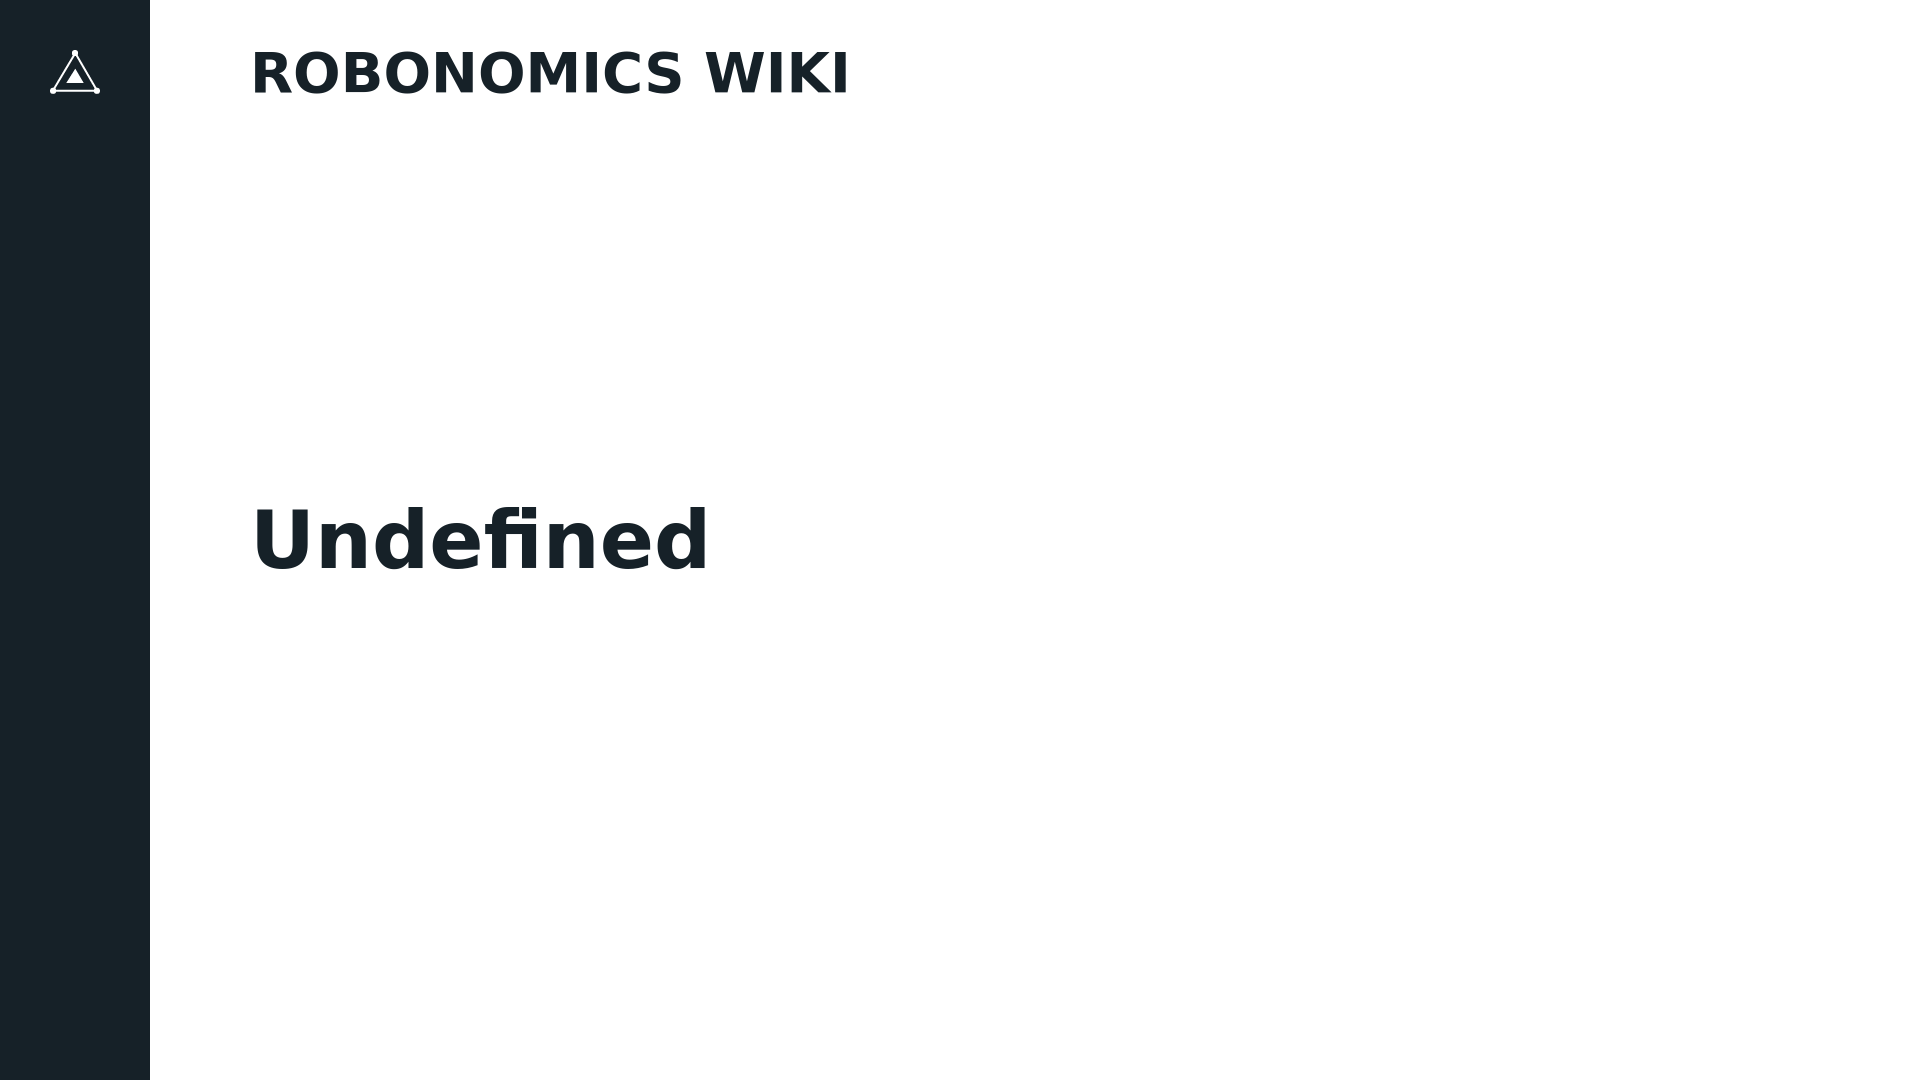
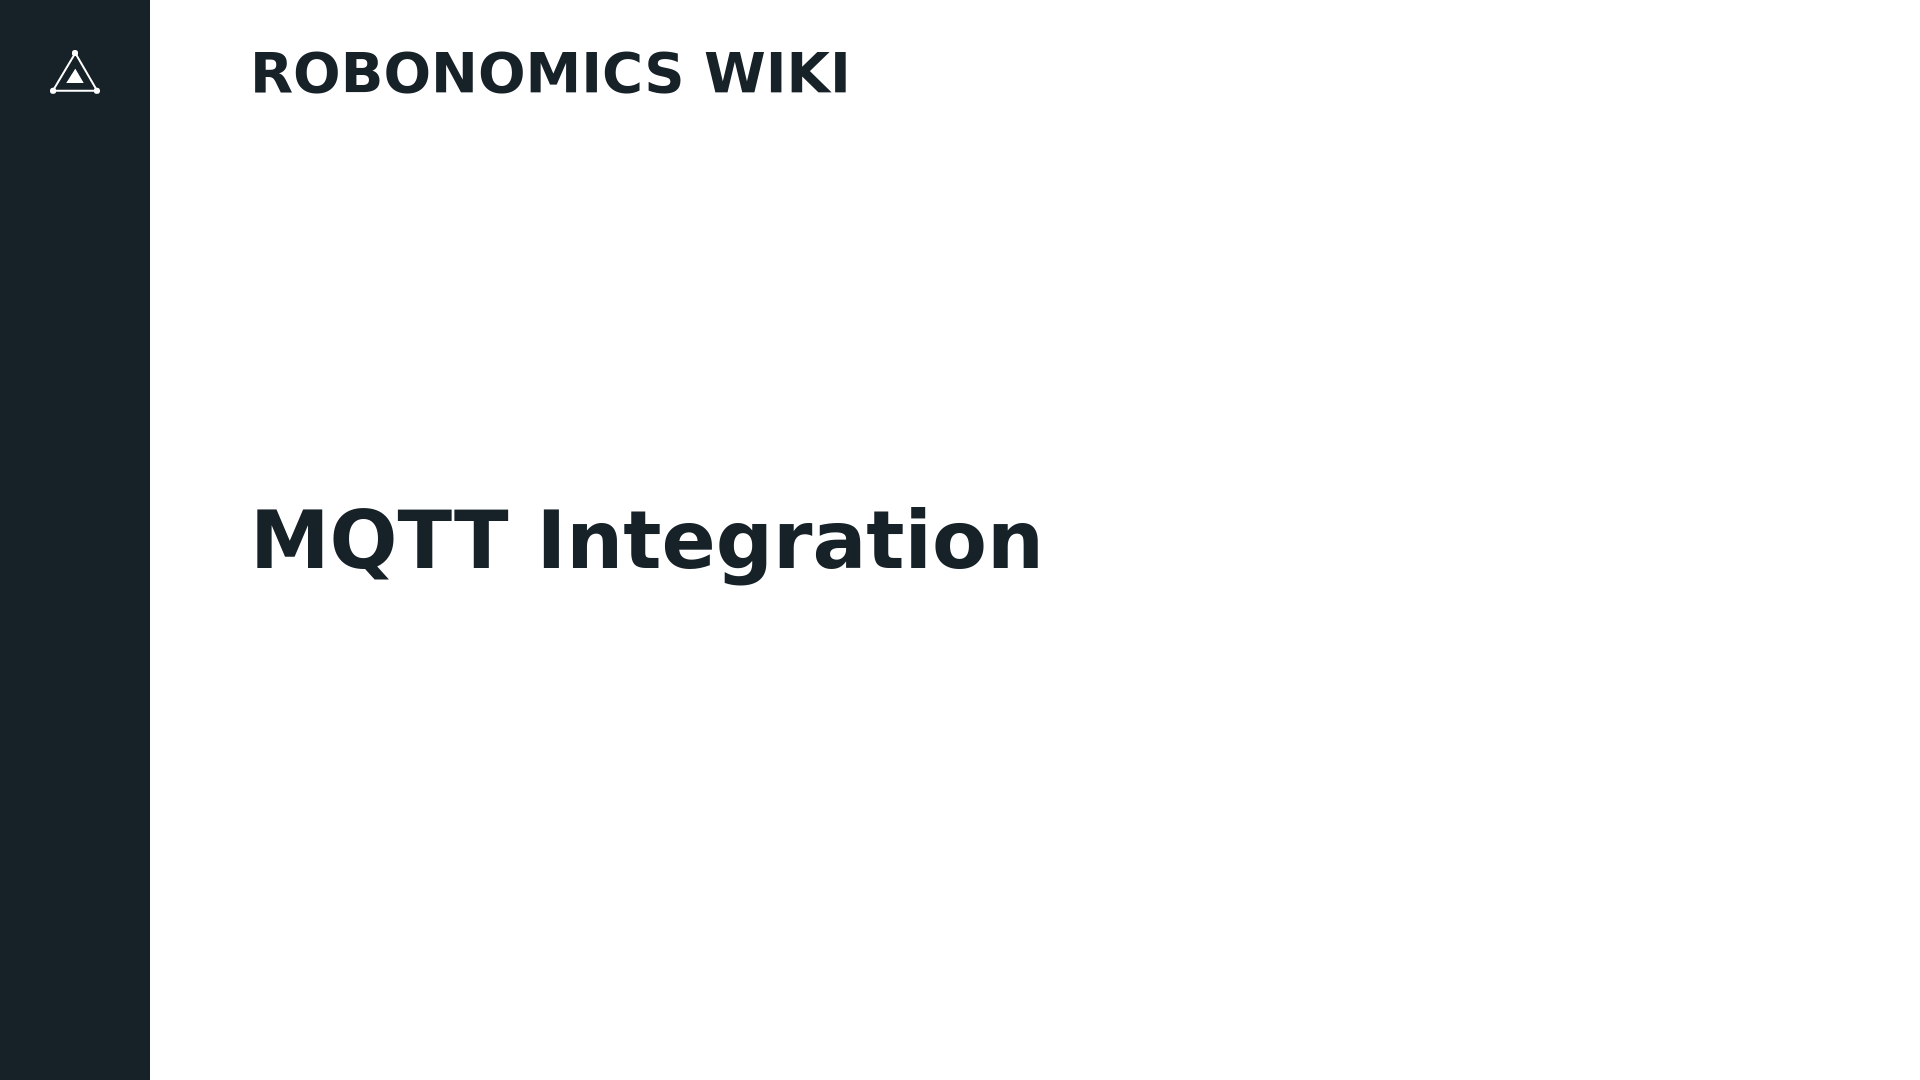
fix requested changes

Changed region(s): [[0.125, 0.4583, 0.5625, 0.55]]

diff --git a/docs/hass-init.md b/docs/hass-init.md
@@ -27,7 +27,7 @@ On the next screen, Home Assistant will show any devices that it has discovered 
 After that, you will see the Home Assistant web interface, which will show all of your devices. Next you need to setup MQTT Broker. And you have to options^
 
 **Option 1 (Home Assistant OS)**
-* If you start upgrading you Home Assistant OS, [go to the next article](/docs/mqtt-hassos/).
+* If you are upgrading you Home Assistant OS, [go to the next article](/docs/mqtt-hassos/).
 
 **Option 2 (Home assistant Docker or core)**
 * If you are using "pre-used" image or upgrading your Home Assistant docker container or hass core, [go to the next article](/docs/mqtt-broker-setup-core/).

diff --git a/docs/hass-install-docker.md b/docs/hass-install-docker.md
@@ -94,5 +94,5 @@ You will see the following output:
 
 Now you have two options:
 
-- If you have not yet used MQTT integration to connect smart devices via Zigbee adapter, go to the [**MQTT Setup**](/docs/mqtt-setup/) article.
+- If you have not yet used MQTT integration to connect smart devices via Zigbee adapter, go to the [**MQTT Broker for Home Assistant docker and core **](/docs/mqtt-broker-setup-core/) article.
 - Otherwise, go to the [**IoT Subscription**](/docs/sub-activate) section and start activating the Robonomics subscription.

diff --git a/docs/mqtt-broker-setup-core.md b/docs/mqtt-broker-setup-core.md
@@ -1,5 +1,5 @@
 ---
-title: MQTT Broker for Home Assistant docker and core
+title: MQTT Broker for Home Assistant Docker and Core
 contributors: [nakata5321, PaTara43]
 tools:
   - Mosquitto Broker 2.0.11
@@ -7,8 +7,6 @@ tools:
 ---
 
 **This article describes how to install MQTT broker for Home Assistant docker or core.**
-
-## Install MQTT Broker
 
 There is a quick installation option with a pre-written script, that installs the [Mosquitto](https://mosquitto.org/) MQTT broker. Connect to your Raspberry Pi and run:
 

diff --git a/docs/mqtt-integration.md b/docs/mqtt-integration.md
@@ -6,8 +6,6 @@ tools:
     https://github.com/home-assistant/core
 ---
 
-## Add MQTT Integration
-
 Install MQTT integration for Home Assistant. Open Home Assistant web interface and go to `Settings` -> `Devices & Services`.
 
 <robo-wiki-picture src="home-assistant/settings.jpg" alt="Home Assistant settings menu" />
